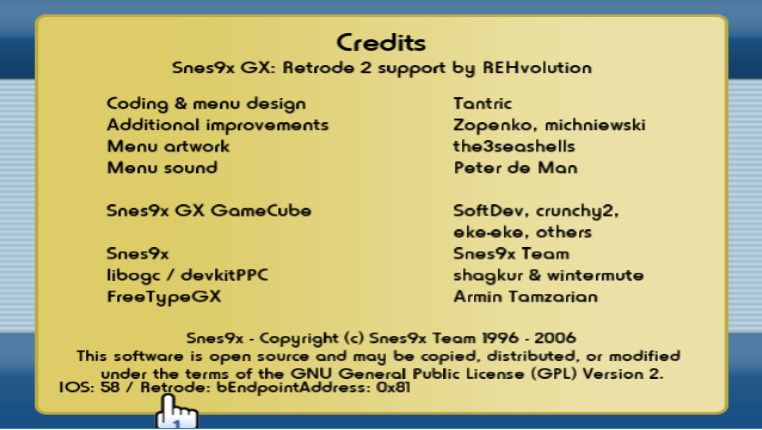
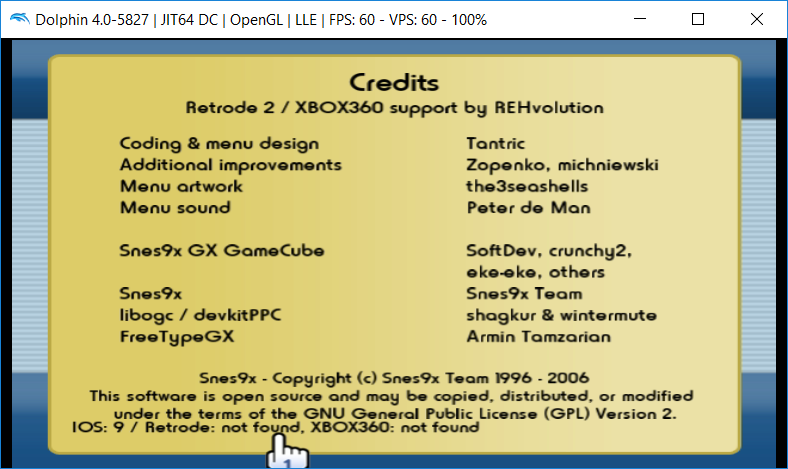
USB_DeviceRemovalNotifyAsync, improved status, improved XBOX button

diff --git a/source/utils/xbox360.c b/source/utils/xbox360.c
@@ -5,6 +5,7 @@
 #define USB_CLASS_XBOX360 0xFF
 
 static bool xbox360Setup = false;
+static bool replugRequired = false;
 static s32 deviceIdXBOX360 = 0;
 static u8 endpointXBOX360_IN = 0x81;
 static u8 endpointXBOX360_OUT = 0x01;
@@ -13,7 +14,8 @@ static u8 bConfigurationValueXBOX360 = 1;
 static u8 ATTRIBUTE_ALIGN(32) buf[20];
 static bool xbox360_read = false;
 static u32 jp;
-static int player = 0;
+static u8 player = 0;
+static u32 xboxButtonCount = 0;
 static bool nextPlayer = false;
 
 static u8 getEndpoint(usb_devdesc devdesc)
@@ -121,10 +123,17 @@ static int read_XBOX360_cb(int res, void *usrdata)
         jp |= (rx < -16384) ? PAD_BUTTON_LEFT  : 0;
         jp |= (rx >  16384) ? PAD_BUTTON_RIGHT : 0;
 
+        // XBOX button to switch to next player
         if ((buf[3] & 0x04) == 0x04)
         {
-            // XBOX button to switch to next player
-            nextPlayer = true;
+            xboxButtonCount++;
+            // count =  2 means you have to push the button 1x to switch players
+            // count = 10 means you have to push the button 5x to switch players
+            if (xboxButtonCount >= 2)
+            {
+                nextPlayer = true;
+                xboxButtonCount = 0;
+            }
         }
     }
 
@@ -163,9 +172,20 @@ void rumble_XBOX360(s32 device_id, u8 left, u8 right)
     USB_WriteIntrMsg(deviceIdXBOX360, endpointXBOX360_OUT, sizeof(buf), buf);
 }
 
+static int removal_cb(int result, void *usrdata)
+{
+    s32 fd = (s32) usrdata;
+    if (fd == deviceIdXBOX360)
+    {
+        stop_reading_XBOX360();
+        deviceIdXBOX360 = 0;
+    }
+    return 1;
+}
+
 static void openXBOX360()
 {
-    if (USB_Initialize() < 0)
+    if (deviceIdXBOX360 != 0)
     {
         return;
     }
@@ -189,6 +209,7 @@ static void openXBOX360()
         if (USB_GetDescriptors(fd, &devdesc) < 0)
         {
             // You have to replug the XBOX360 controller!
+            replugRequired = true;
             USB_CloseDevice(&fd);
             continue;
         }
@@ -196,7 +217,9 @@ static void openXBOX360()
         if (isXBOX360(devdesc) && USB_SetConfiguration(fd, bConfigurationValueXBOX360) >= 0)
         {
             deviceIdXBOX360 = fd;
+            replugRequired = false;
             turnOnLED();
+            USB_DeviceRemovalNotifyAsync(fd, &removal_cb, (void*) fd);
         }
         else
         {
@@ -240,10 +263,12 @@ u32 XBOX360_ButtonsHeld(int chan)
 	return jp;
 }
 
-s32 XBOX360_Endpoint()
+char* XBOX360_Status()
 {
     openXBOX360();
-    return deviceIdXBOX360 ? endpointXBOX360_IN : 0;
+    if (replugRequired)
+        return "please replug";
+    return deviceIdXBOX360 ? "connected" : "not found";
 }
 
 #endif

diff --git a/source/utils/retrode.c b/source/utils/retrode.c
@@ -2,6 +2,7 @@
 #include <gccore.h>
 
 static bool retrodeSetup = false;
+static bool replugRequired = false;
 static s32 deviceIdRetrode = 0;
 static u8 endpointRetrode = 0;
 static u8 bMaxPacketSizeRetrode = 0;
@@ -29,9 +30,19 @@ static u8 getEndpoint(usb_devdesc devdesc)
 	return devdesc.configurations->interfaces->endpoints->bEndpointAddress;
 }
 
+static int removal_cb(int result, void *usrdata)
+{
+    s32 fd = (s32) usrdata;
+    if (fd == deviceIdRetrode)
+    {
+        deviceIdRetrode = 0;
+    }
+    return 1;
+}
+
 static void openRetrode()
 {
-    if (USB_Initialize() < 0)
+    if (deviceIdRetrode != 0)
     {
         return;
     }
@@ -55,12 +66,16 @@ static void openRetrode()
 		usb_devdesc devdesc;
 		if (USB_GetDescriptors(fd, &devdesc) < 0 || !isRetrodeGamepad(devdesc))
 		{
+		    // You have to replug the Retrode controller!
+		    replugRequired = true;
 			USB_CloseDevice(&fd);
 			continue;
 		}
 		deviceIdRetrode = fd;
+		replugRequired = false;
 		endpointRetrode = getEndpoint(devdesc);
 		bMaxPacketSizeRetrode = devdesc.bMaxPacketSize0;
+		USB_DeviceRemovalNotifyAsync(fd, &removal_cb, (void*) fd);
 	}
 
     retrodeSetup = true;
@@ -125,10 +140,12 @@ u32 Retrode_ButtonsHeld(int chan)
 	return jpRetrode[chan];
 }
 
-s32 Retrode_Endpoint()
+char* Retrode_Status()
 {
     openRetrode();
-    return endpointRetrode;
+    if (replugRequired)
+        return "please replug";
+    return deviceIdRetrode ? "connected" : "not found";
 }
 
 #endif

diff --git a/source/menu.cpp b/source/menu.cpp
@@ -819,7 +819,7 @@ static void WindowCredits(void * ptr)
 	txt[i]->SetAlignment(ALIGN_CENTRE, ALIGN_TOP); txt[i]->SetPosition(0,y); i++; y+=32;
 
 	//txt[i] = new GuiText("Official Site: https://github.com/dborth/snes9xgx", 20, (GXColor){0, 0, 0, 255});
-	txt[i] = new GuiText("Snes9x GX: Retrode 2 support by REHvolution", 20, (GXColor){0, 0, 0, 255});
+	txt[i] = new GuiText("Retrode 2 / XBOX360 support by REHvolution", 20, (GXColor){0, 0, 0, 255});
 	txt[i]->SetAlignment(ALIGN_CENTRE, ALIGN_TOP); txt[i]->SetPosition(0,y); i++; y+=40;
 
 	GuiText::SetPresets(20, (GXColor){0, 0, 0, 255}, 0, FTGX_JUSTIFY_LEFT | FTGX_ALIGN_TOP, ALIGN_LEFT, ALIGN_TOP);
@@ -874,7 +874,7 @@ static void WindowCredits(void * ptr)
 
 #ifdef HW_RVL
 	//sprintf(iosVersion, "IOS: %ld", IOS_GetVersion());
-	snprintf(iosVersion, 70, "IOS: %ld / Retrode: %s", IOS_GetVersion(), GetRetrodeInfo());
+	snprintf(iosVersion, 70, "IOS: %ld / %s", IOS_GetVersion(), GetUSBControllerInfo());
 #endif
 
 	txt[i] = new GuiText(iosVersion, 18, (GXColor){0, 0, 0, 255});

diff --git a/source/input.cpp b/source/input.cpp
@@ -900,9 +900,9 @@ void SetDefaultButtonMap ()
 	SetControllers();
 }
 
-char* GetRetrodeInfo()
+char* GetUSBControllerInfo()
 {
     static char info[50];
-    snprintf(info, 50, "Retrode: 0x%02X, XBOX360: 0x%02X", Retrode_Endpoint(), XBOX360_Endpoint());
+    snprintf(info, 50, "Retrode: %s, XBOX360: %s", Retrode_Status(), XBOX360_Status());
     return info;
 }

diff --git a/source/input.h b/source/input.h
@@ -35,6 +35,6 @@ void SetDefaultButtonMap ();
 bool MenuRequested();
 void SetupPads();
 void UpdatePads();
-char* GetRetrodeInfo();
+char* GetUSBControllerInfo();
 
 #endif

diff --git a/source/utils/retrode.h b/source/utils/retrode.h
@@ -9,7 +9,7 @@ extern "C" {
 
 bool Retrode_ScanPads();
 u32 Retrode_ButtonsHeld(int chan);
-s32 Retrode_Endpoint();
+char* Retrode_Status();
 
 #ifdef __cplusplus
 }

diff --git a/source/utils/xbox360.h b/source/utils/xbox360.h
@@ -9,7 +9,7 @@ extern "C" {
 
 bool XBOX360_ScanPads();
 u32 XBOX360_ButtonsHeld(int chan);
-s32 XBOX360_Endpoint();
+char* XBOX360_Status();
 
 #ifdef __cplusplus
 }
